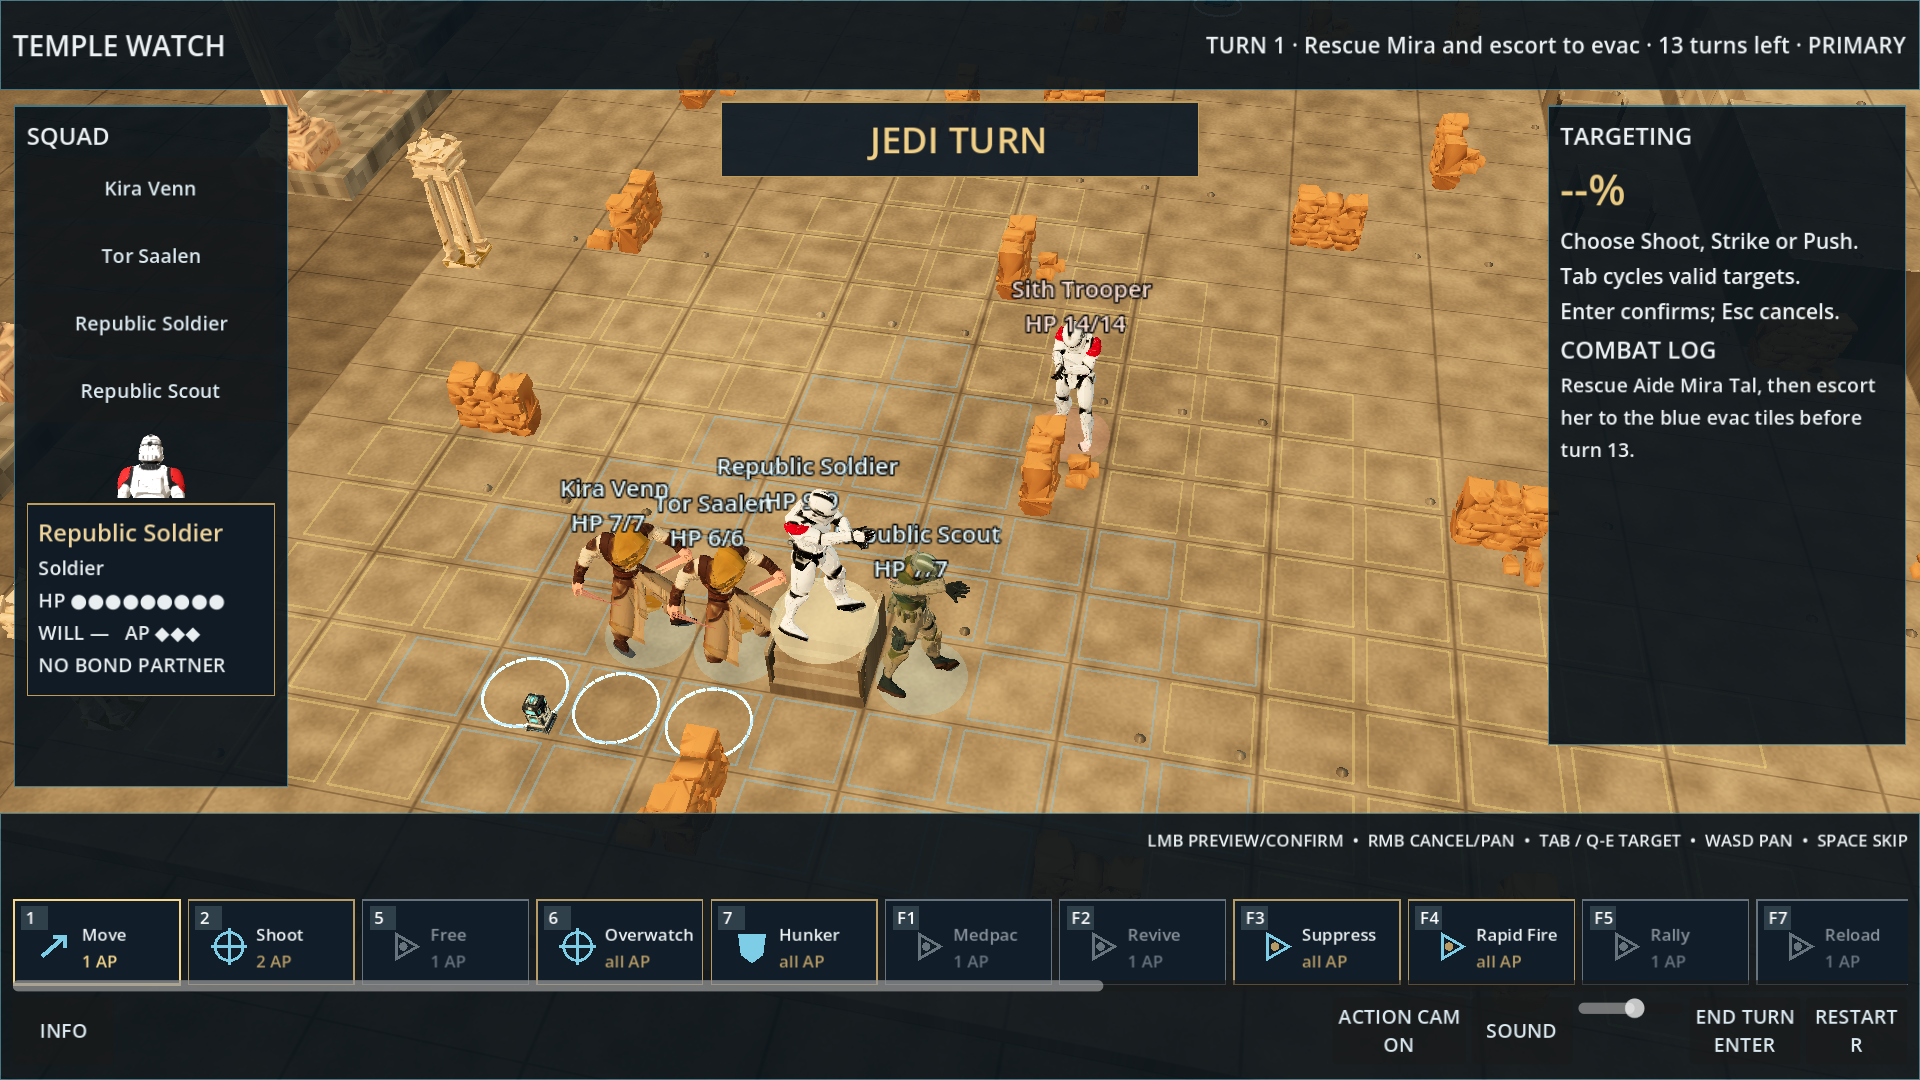
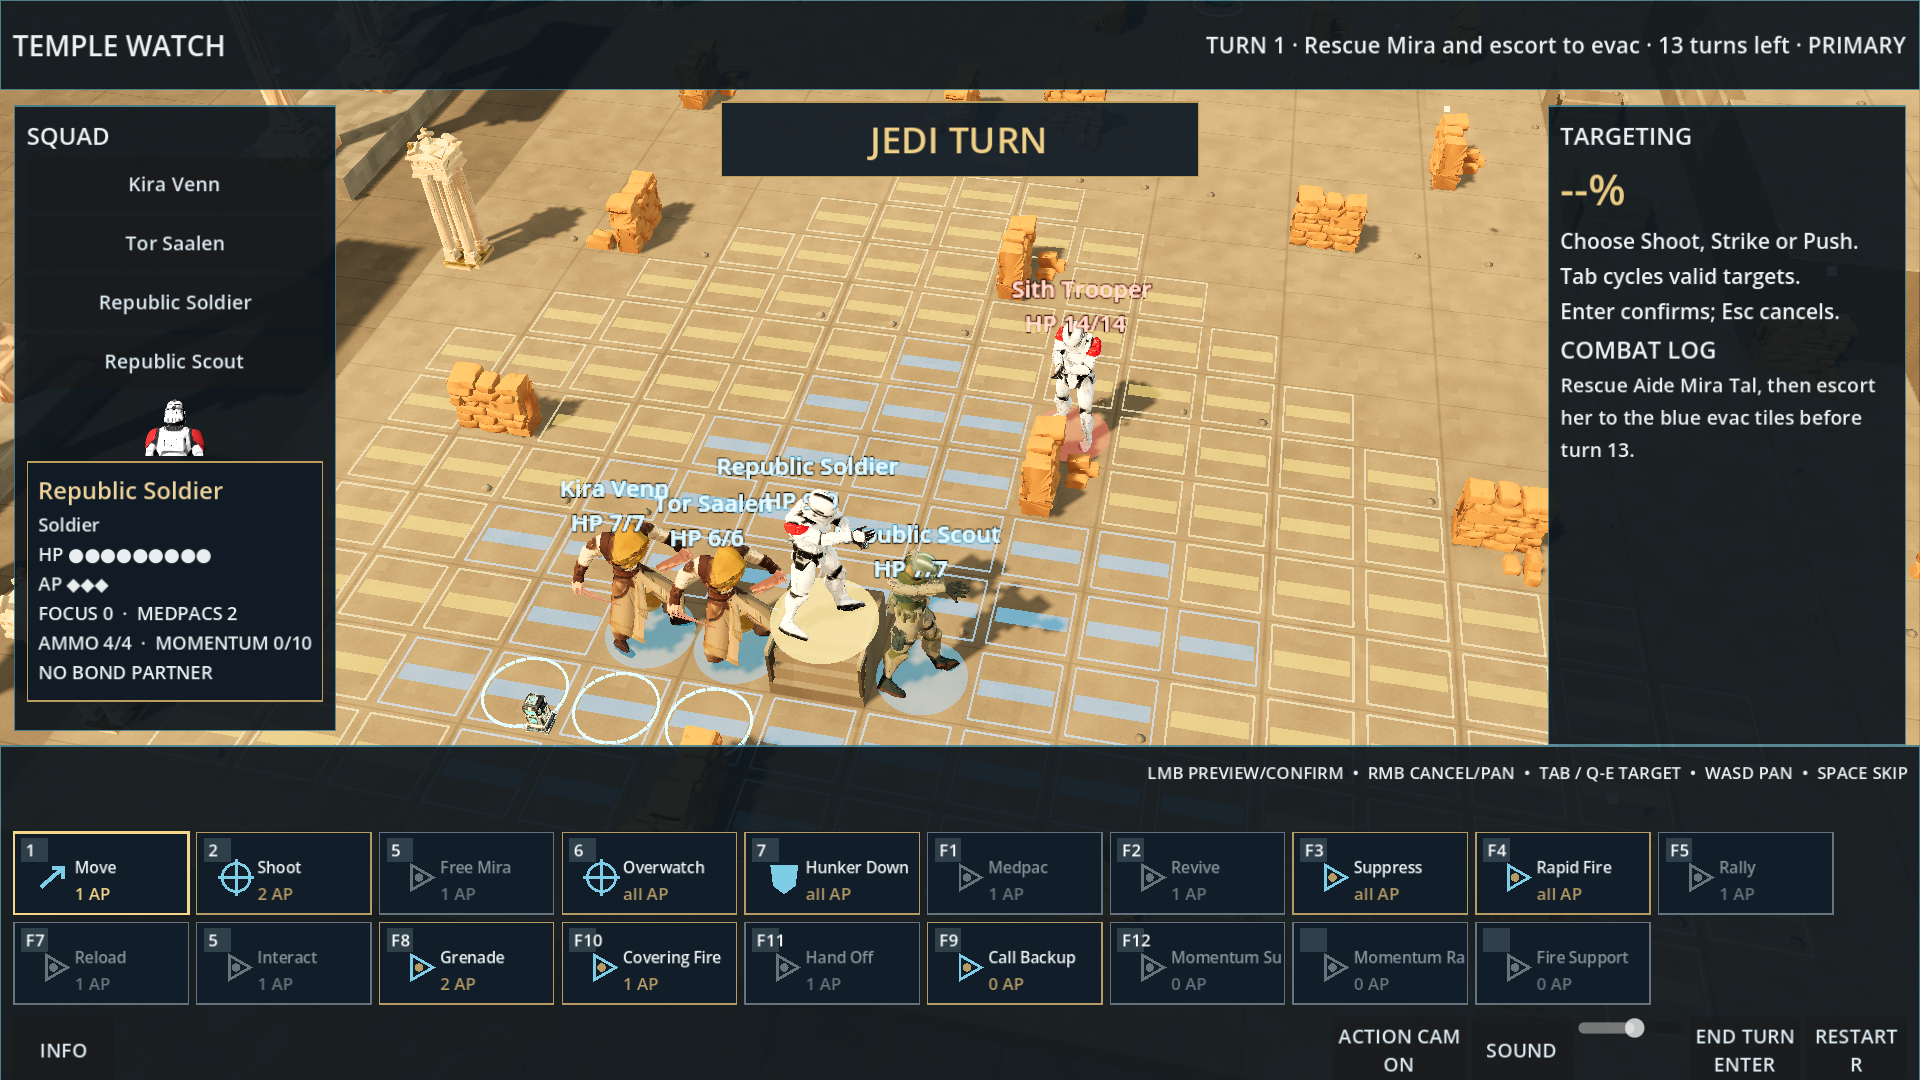
Restore battle info on new HUD, fit ability bar, clearer move preview

diff --git a/docs/godot/night1/UI-REPORT.md b/docs/godot/night1/UI-REPORT.md
@@ -2,15 +2,17 @@
 
 ## Changes
 
-- Rebuilt the action strip as a centered, horizontally scrollable row of drawn Godot glyph buttons. Each button reads its visibility, AP cost, cooldown and disabled reason from the selected unit and the existing ability definitions. The active action has a brighter border. Existing numbered and function hotkeys remain available.
-- Added a selected-unit plate with the existing live portrait, class, HP and AP pips, Will when the unit supplies it, status icons with tooltips, and a bond partner name when present.
-- Added large target hit odds, crit odds beside the target, small hit chips for visible enemies, and an expandable breakdown. The breakdown uses `Shot.calculate` through `combat_targeting.gd`; a displayed cap adjustment makes its aim rows sum to the final hit chance. Tab and Q/E cycle legal targets while aiming.
-- Kept the existing reachable-tile and path data, with blue one-action and yellow dash borders. Destination shields show half/full cover. The flank warning now checks an enemy's shot *toward* the proposed destination.
+- Rebuilt the action strip as a wrapping row of drawn Godot glyph buttons. Every action from the old base row and Techniques menu remains in the bar. The bar fits without horizontal scrolling at 1366 and 1920; objective labels use their full ability names. Each button reads its visibility, AP cost, cooldown and disabled reason from the selected unit and the existing ability definitions. The active action has a brighter border. Existing numbered and function hotkeys remain available.
+- Added a selected-unit plate with the existing live portrait, class, HP and AP pips, Focus, medpacs, ammo, momentum, Will when the unit supplies it, status icons with tooltips, and a bond partner name when present. The legacy rescue unit has no Will attribute, so its plate omits that field.
+- Added large target hit odds, crit odds beside the target, small hit chips for visible enemies, and an expandable breakdown. The target panel also retains normal, crit and graze damage ranges, armor, shred on hit, ammo and AP cost. The breakdown uses `Shot.calculate` through `combat_targeting.gd`; a displayed cap adjustment makes its aim rows sum to the final hit chance. Tab and Q/E cycle legal targets while aiming.
+- Kept the existing reachable-tile and path data, with more visible blue one-action and yellow dash fills and brighter borders. Destination cover shows solid shields for full cover and outlined shields for half cover on tile edges, along with the text readout. The flank warning checks an enemy's shot *toward* the proposed destination.
 - Added animated Jedi/enemy turn plates and a two-second, backed enemy action line. Added an Esc pause panel with battle Settings and the shared Graphics selector. The existing End Turn action still asks for confirmation when squad members have AP.
 
 ## Captures
 
 All images are real Godot window captures. The before set was first taken before repository edits, using an out-of-tree copy of `combat_capture.gd` to expose idle, selected and enemy-turn fixture states. The exact 1920×1080 before renders were then repeated from the original commit in an isolated checkout. The after set uses the updated in-tree capture helper. Godot's default aspect scaling cut the 1080p viewport one pixel short, so the helper uses a fill aspect during capture. All 18 PNGs were checked for their requested dimensions. The fixture holds units and camera in the same positions across comparable states.
+
+For the restoration pass, selected, targeting, move and breakdown were recaptured at 1920×1080, plus idle and targeting at 1366×768. The move fixture includes adjacent half and full cover so both shield shapes can be inspected.
 
 | State | Before 1366×768 | Before 1920×1080 | After 1920×1080 |
 |---|---|---|---|
@@ -23,8 +25,8 @@ Additional 1920×1080 after states: [odds breakdown](../shots/night1-ui-after-br
 
 ## Verification and limits
 
-`hud_night1_test.gd` checks ability visibility/cost/cooldown/reason, real shot parity for open/cover/flank/height fixtures, aim-row totals, target order, movement colors, destination flank warning and cover, both turn labels, status tooltip, End Turn confirmation and pause behavior: **45 checks, 0 failures**.
+`hud_night1_test.gd` also checks all restored plate and targeting values against unit and shot data, numeric and omitted Will, ability set parity, full objective labels, bar bounds at both widths, move fill alpha, and both drawn shield shapes: **401 checks, 0 failures**.
 
 `./godot/test.sh` exited 0 on the final code: every suite reported 0 failures, there were 0 `SCRIPT ERROR` lines, and the Normal rescue bot won **10/20**.
 
-The legacy rescue fixture has no Will attribute, so its plate shows `WILL —`; deployed campaign units display their numeric Will. No battle rule, balance, action or asset was skipped.
+No battle rule, balance, action or asset was skipped.
